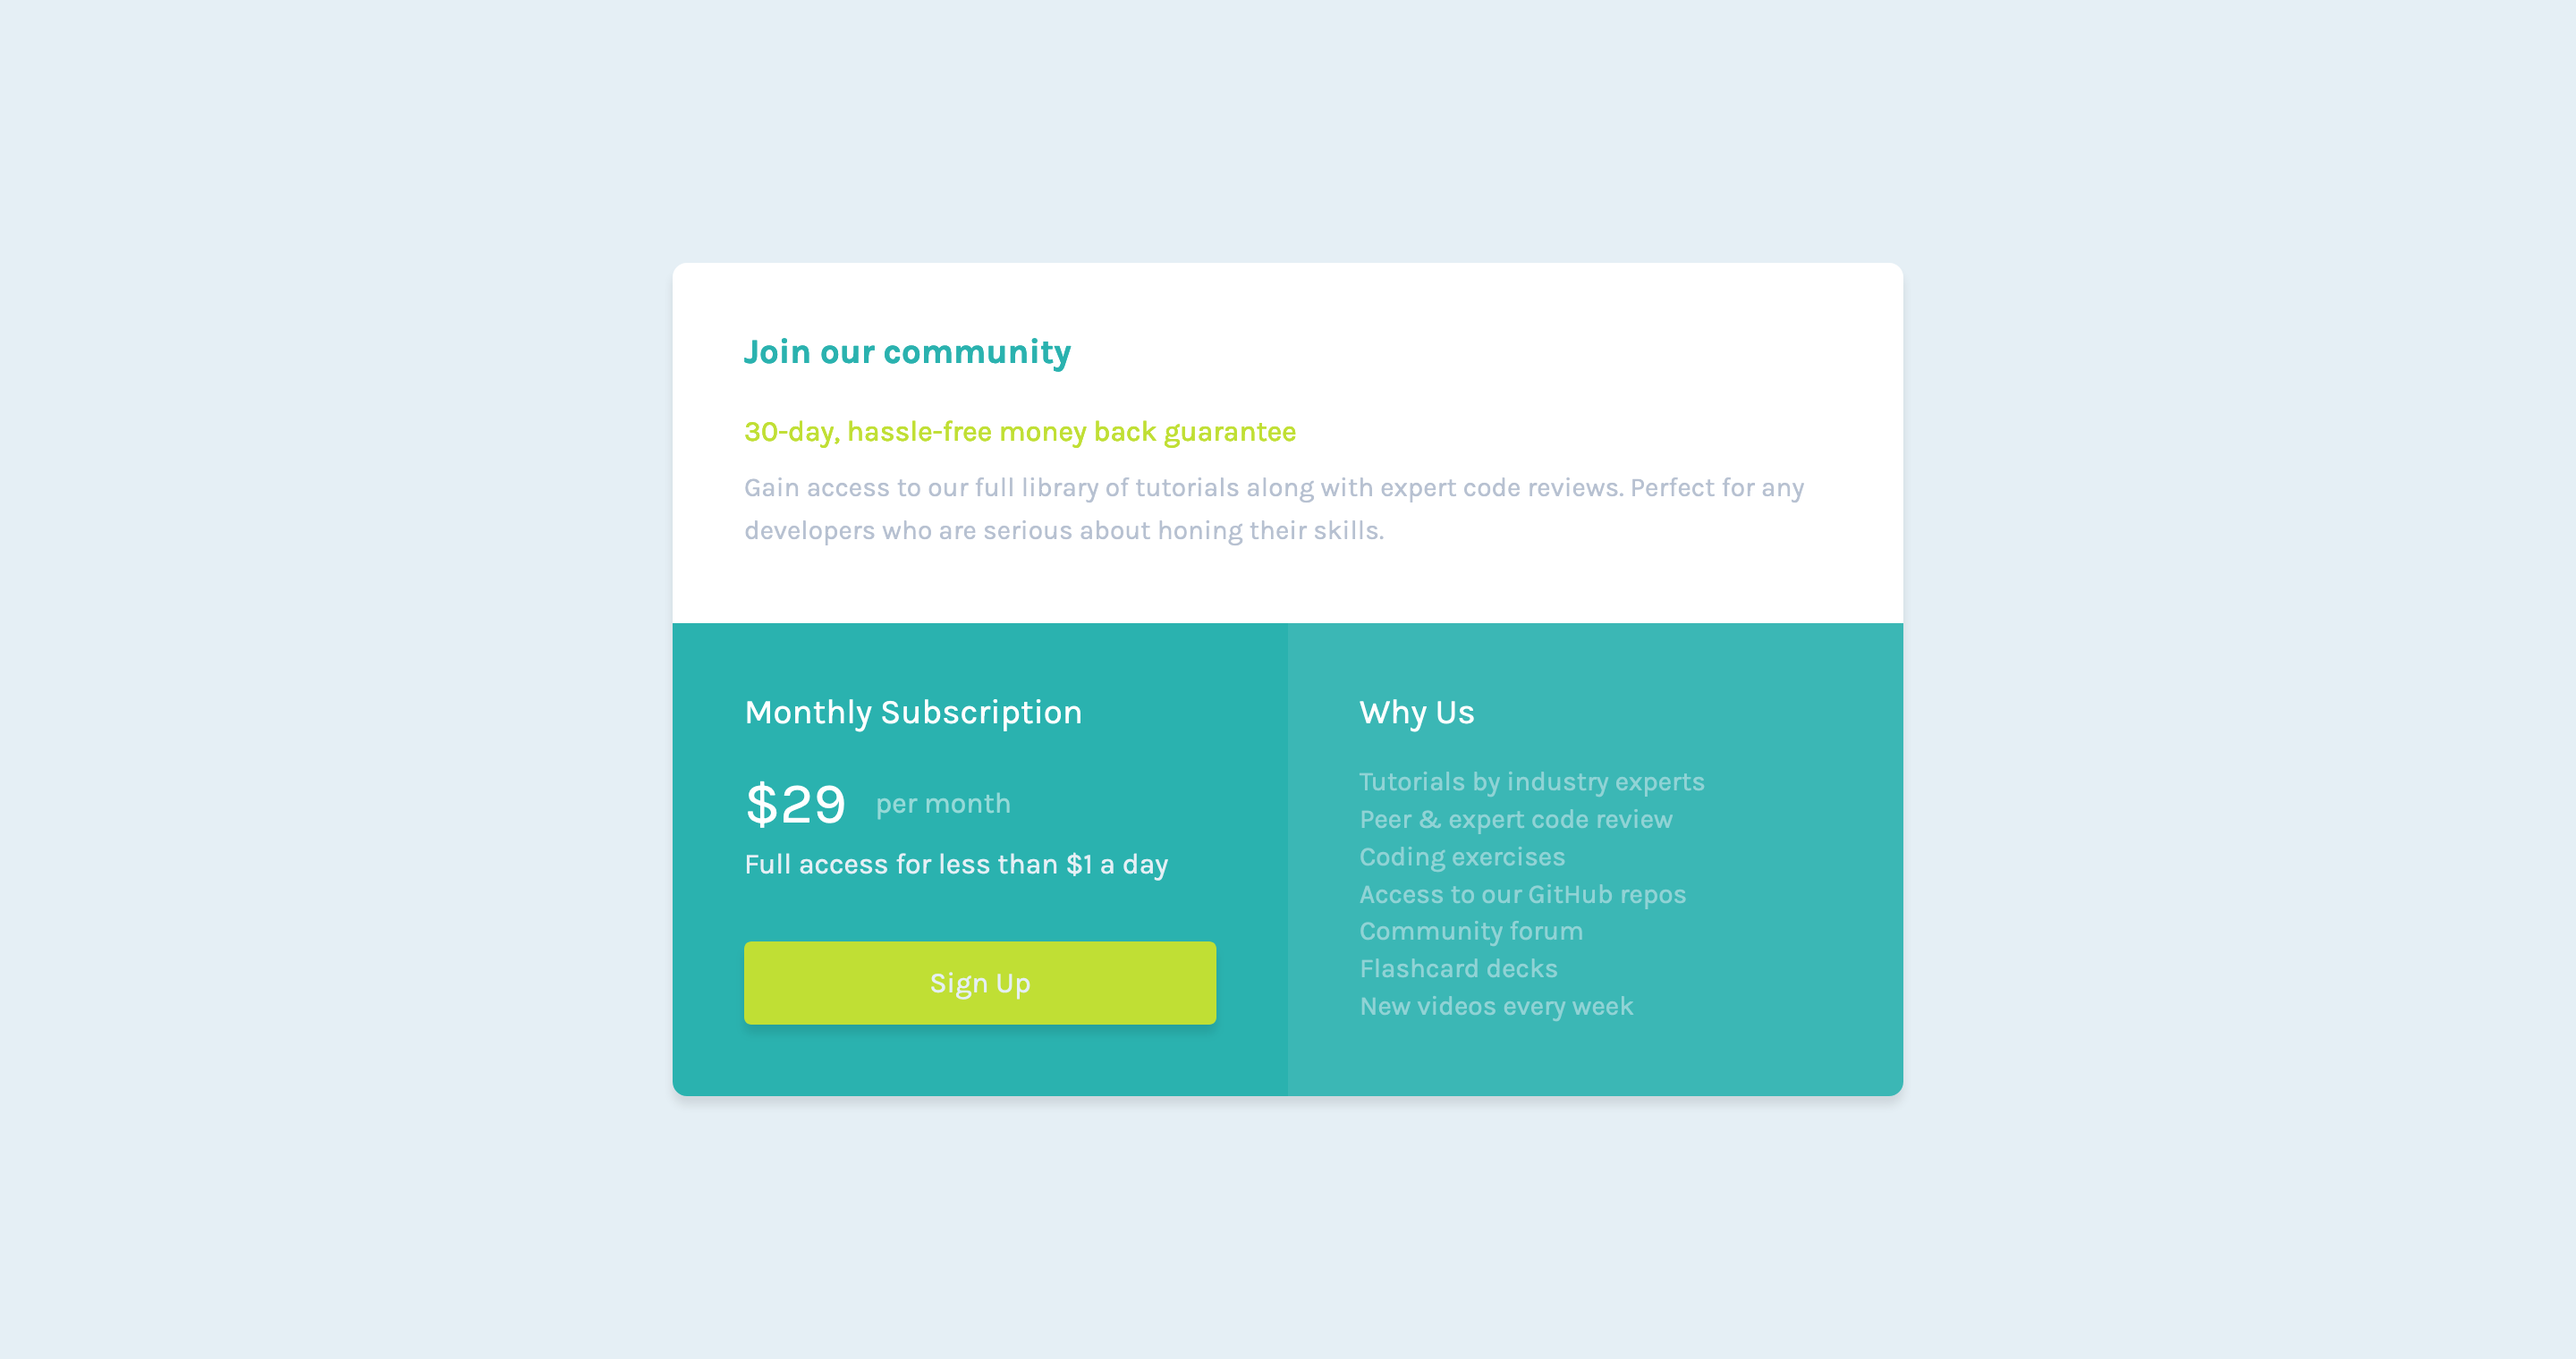
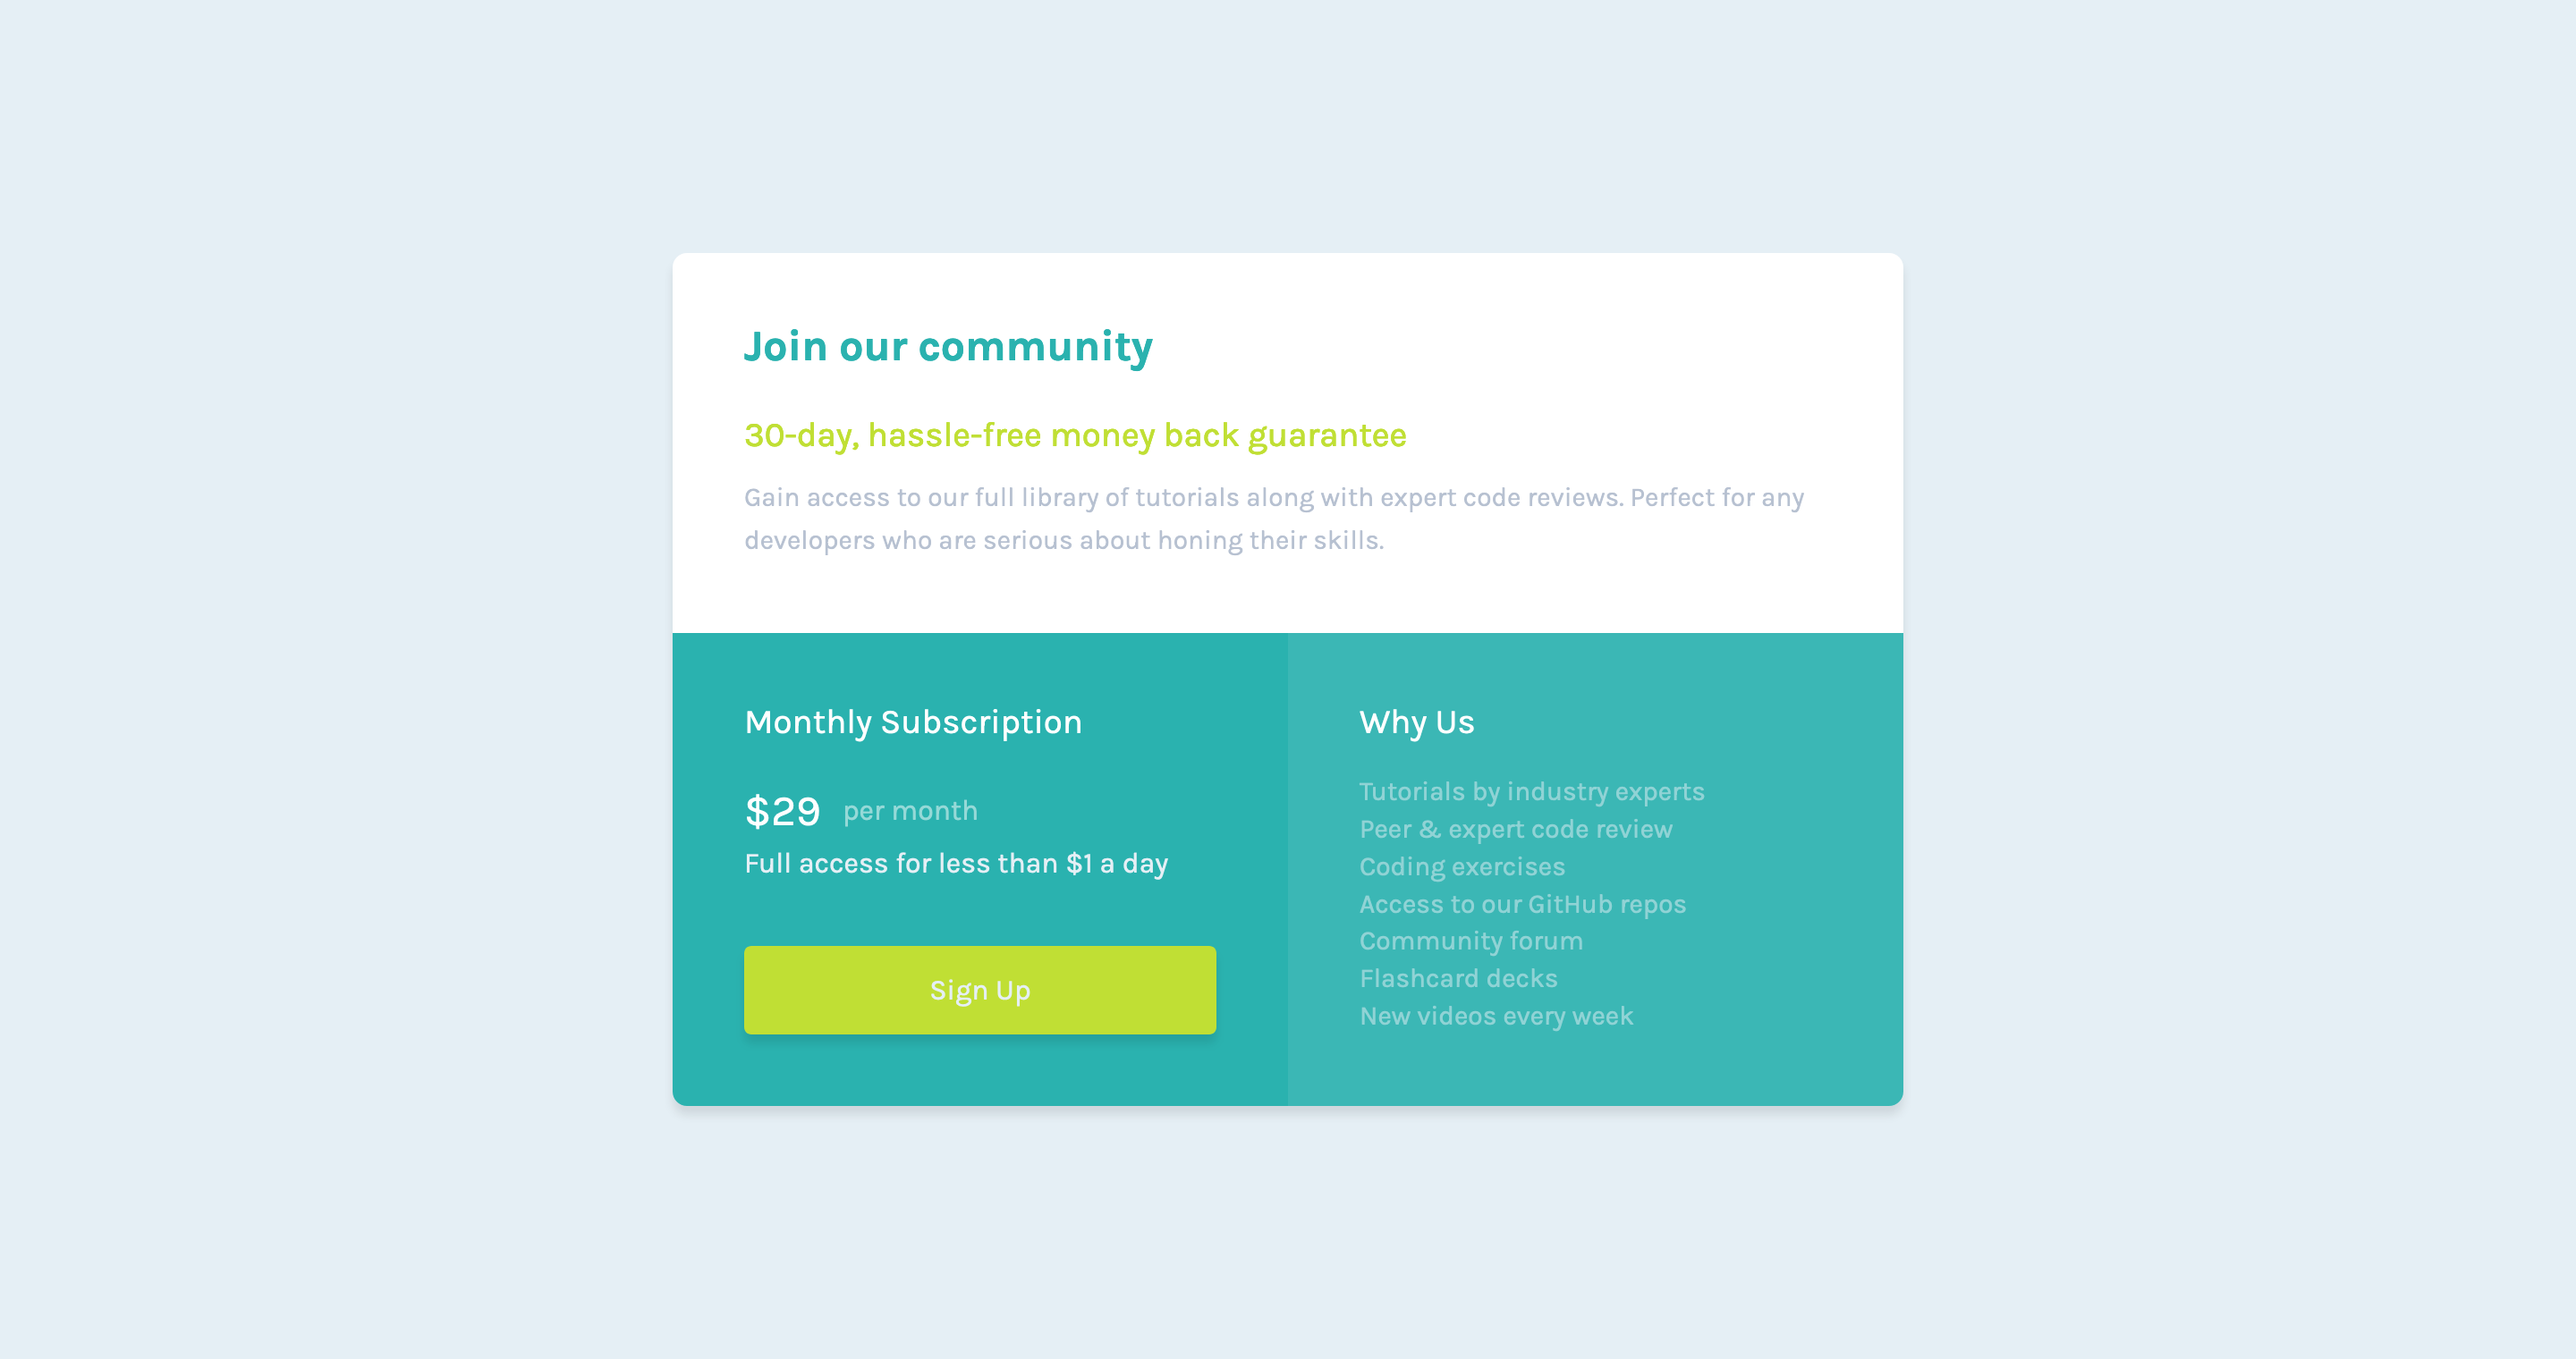
Update H1 sizing

diff --git a/style.css b/style.css
@@ -18,7 +18,7 @@
     --fs-300: .9325rem;
     --fs-400: 1rem;
     --fs-500: 1.2rem;
-    --fs-700: 2rem;
+    --fs-700: 1.5rem;
 
     --fw-normal: 400;
     --fw-bold: 700;
@@ -115,12 +115,13 @@ li[class] {
     background-color: var(--clr-neutral-100);
 }
 .subscription__title {
-    font-size: var(--fs-500);
+    font-size: var(--fs-700);
     font-weight: var(--fw-bold);
     color: var(--clr-primary-400);
-    margin-bottom: 1.25em;
+    margin-bottom: 1em;
 }
 .subscription__tagline {
+    font-size: var(--fs-500);
     color: var(--clr-accent-400);
     margin-top: 1em;
     margin-bottom: .5em;
